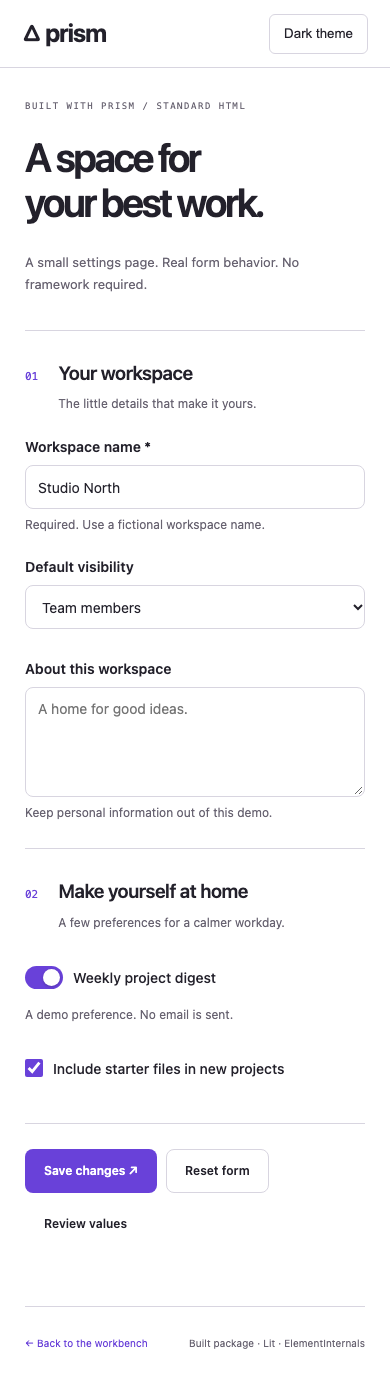
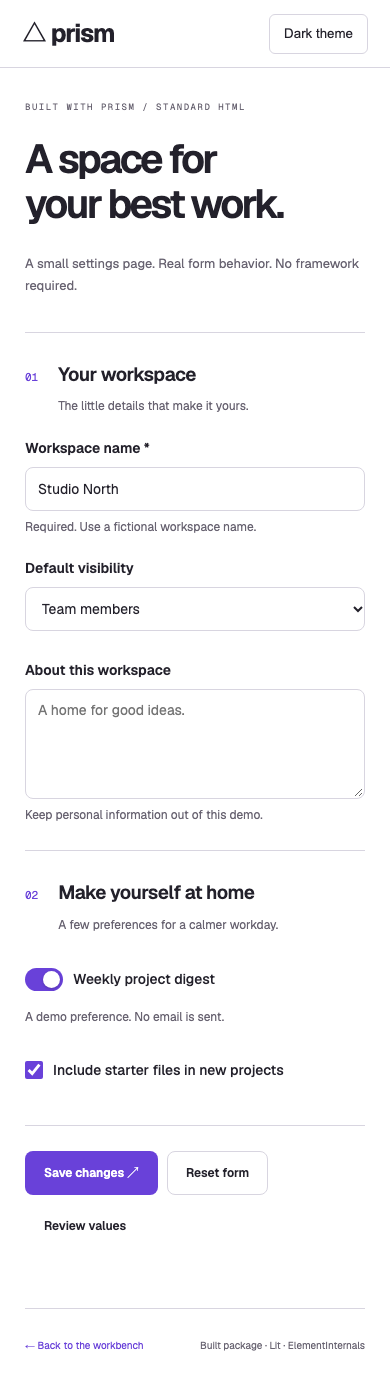
Give Prism a distinct and self-contained typographic voice
Use the reserved Geist and Geist Mono pair as two self-hosted Latin variable WOFF2 files. Keep local license notices and font budgets, refresh actual screenshots, and retain the verified interaction behavior.

Constraint: User requested unique font families across all portfolio apps
Confidence: high
Scope-risk: narrow
Tested: Full lint/format/type/domain/build/external-consumer checks; 30 Chromium/WebKit tests; actual desktop/mobile font loading and screenshot inspection; visual verdict93
Not-tested: Extended-language glyph coverage beyond the documented Latin subset

diff --git a/src/style.css b/src/style.css
@@ -84,7 +84,7 @@ button {
   color: var(--prism-text);
 }
 .version {
-  font-family: monospace;
+  font-family: var(--prism-mono, monospace);
   color: var(--prism-muted);
   border: 1px solid var(--prism-border);
   border-radius: 5px;
@@ -192,7 +192,7 @@ button {
   margin-bottom: 9px;
 }
 .components-label span {
-  font-family: monospace;
+  font-family: var(--prism-mono, monospace);
   letter-spacing: 0;
   background: var(--prism-subtle);
   border-radius: 4px;
@@ -332,7 +332,7 @@ h1 {
 .component-heading prism-badge {
   align-self: flex-end;
   margin-bottom: 7px;
-  --prism-font: monospace;
+  --prism-font: var(--prism-mono, monospace);
   font-size: 9px;
   padding: 3px 7px;
 }
@@ -462,7 +462,7 @@ h1 {
   max-width: 300px;
 }
 .specimen-label {
-  font: 8px monospace;
+  font: 8px var(--prism-mono, monospace);
   letter-spacing: 1.5px;
   color: var(--prism-muted);
   text-align: center;
@@ -499,7 +499,7 @@ h1 {
   left: 0;
   right: 0;
   text-align: center;
-  font-family: monospace;
+  font-family: var(--prism-mono, monospace);
   font-size: 9px;
   color: var(--prism-muted);
   opacity: 0.8;
@@ -584,7 +584,7 @@ h1 {
 }
 .control-label > span {
   float: right;
-  font-family: monospace;
+  font-family: var(--prism-mono, monospace);
   font-size: 9px;
 }
 .control-label input[type='range'] {
@@ -682,7 +682,7 @@ h1 {
   overflow-x: auto;
   white-space: pre-wrap;
   overflow-wrap: anywhere;
-  font-family: ui-monospace, SFMono-Regular, Consolas, monospace;
+  font-family: var(--prism-mono, monospace);
 }
 .under-preview {
   display: grid;
@@ -954,7 +954,7 @@ td:first-child {
 }
 .token-controls strong {
   float: right;
-  font-family: monospace;
+  font-family: var(--prism-mono, monospace);
   font-size: 10px;
 }
 .token-controls input {
@@ -1052,7 +1052,7 @@ td:first-child {
   margin-top: 45px;
 }
 .step-number {
-  font-family: monospace;
+  font-family: var(--prism-mono, monospace);
   font-size: 12px;
   color: var(--prism-accent);
 }

diff --git a/src/main.ts b/src/main.ts
@@ -4,6 +4,7 @@ import type { PrismDialog } from './components';
 import { components } from './catalog';
 import { renderDemo } from './workbench/demos';
 import './tokens.css';
+import './fonts.css';
 import './style.css';
 let active = location.hash.slice(1) || 'button';
 let view = 'preview';
@@ -294,7 +295,7 @@ function tokens() {
       <div>
         <h2>Type that gets out of the way.</h2>
         <p class="type-large">Clarity comes naturally.</p>
-        <code>System sans · 14 / 16 / 24 / 48</code>
+        <code>Geist · 14 / 16 / 24 / 48</code>
       </div>
       <div>
         <h2>A rhythm to build on.</h2>

diff --git a/src/fonts.css b/src/fonts.css
@@ -1,0 +1,16 @@
+/* Latin variable WOFF2, self-hosted from pinned Fontsource packages; OFL-1.1. */
+@font-face {
+  font-family: 'Geist Variable';
+  font-style: normal;
+  font-weight: 100 900;
+  font-display: swap;
+  src: url('@fontsource-variable/geist/files/geist-latin-wght-normal.woff2') format('woff2');
+}
+@font-face {
+  font-family: 'Geist Mono Variable';
+  font-style: normal;
+  font-weight: 100 900;
+  font-display: swap;
+  src: url('@fontsource-variable/geist-mono/files/geist-mono-latin-wght-normal.woff2')
+    format('woff2');
+}

diff --git a/examples/consumer.ts b/examples/consumer.ts
@@ -1,6 +1,7 @@
 // Deliberately consumes the output artifact, never src/components.
 import '@khalilbenali/prism-web-components';
 import '@khalilbenali/prism-web-components/tokens.css';
+import '../src/fonts.css';
 const form = document.querySelector<HTMLFormElement>('#settings')!;
 const result = document.querySelector('prism-status')!;
 const dialog = document.querySelector('prism-dialog')!;

diff --git a/examples/style.css b/examples/style.css
@@ -46,7 +46,7 @@ main {
   margin: auto;
 }
 .eyebrow {
-  font: 9px monospace;
+  font: 9px var(--prism-mono, monospace);
   letter-spacing: 1.5px;
   color: var(--prism-muted);
 }
@@ -79,7 +79,7 @@ section {
   align-items: baseline;
 }
 .section-heading > span {
-  font: 11px monospace;
+  font: 11px var(--prism-mono, monospace);
   color: var(--prism-accent);
 }
 h2 {

diff --git a/src/tokens.css b/src/tokens.css
@@ -1,5 +1,6 @@
 :root {
-  --prism-font: -apple-system, BlinkMacSystemFont, 'Segoe UI', sans-serif;
+  --prism-font: 'Geist Variable', sans-serif;
+  --prism-mono: 'Geist Mono Variable', monospace;
   --prism-text: #23212b;
   --prism-muted: #686371;
   --prism-surface: #ffffff;

diff --git a/README.md b/README.md
@@ -14,7 +14,7 @@ An original component-library portfolio study, created November 2026. Twelve nat
 - **Forms:** text field, textarea, checkbox, switch and select. Native labels, validation, FormData, disabled fieldsets and reset through ElementInternals.
 - **Structure:** automatically activated keyboard tabs, a native modal with composed-tree focus containment and restoration, and native details disclosures.
 - **Feedback:** semantic badges, bounded/indeterminate progress and persistent polite status announcements.
-- **Design:** scoped shadow CSS, supported custom properties/parts, two themes, three accent families and an editable radius token. No remote fonts or runtime imagery.
+- **Design:** scoped shadow CSS, supported custom properties/parts, two themes, three accent families and an editable radius token. Self-hosted Geist/Geist Mono and no runtime imagery.
 
 Each component has a working preview, typed property/attribute contract, slots, parts, events and keyboard notes. Search navigation, copyable examples, responsive previews and the token playground are functional. Hash links such as `/#dialog` are refresh-safe on the Pages subpath.
 
@@ -78,7 +78,7 @@ The latest measured production build (Node zlib gzip; no performance-score claim
 | Combined documentation + HTML-example JavaScript | 95.9 kB | 27.7 kB |
 | Combined CSS                                     | 26.0 kB |  6.2 kB |
 
-Budgets fail the build above 30 kB library / 150 kB combined JS / 40 kB combined CSS. The combined figure includes both page entries; a visitor does not load both at once. There is no runtime font or image payload. Screenshots are documentation-only.
+Budgets fail the build above 30 kB library / 150 kB combined JS / 40 kB combined CSS. The combined figure includes both page entries; a visitor does not load both at once. Two Latin variable WOFF2 fonts are self-hosted; there is no runtime image payload. Screenshots are documentation-only.
 
 `npm audit --omit=dev` reported zero advisories on 3 November 2026. The full audit reported nine moderate development-tooling advisories inherited from minimatch's glob-parts amplification advisory ([GHSA-g3hv-75wg-m249](https://github.com/advisories/GHSA-g3hv-75wg-m249)); these tools do not ship in the static demo. No unsafe forced major-version overrides were applied.
 
@@ -90,4 +90,4 @@ Pure progress/tab rules, documentation fixture data, specimen rendering, scoped 
 
 [Mobile workbench](docs/screenshots/workbench-mobile.png) · [Dark theme](docs/screenshots/workbench-dark.png) · [Token lab](docs/screenshots/tokens-desktop.png) · [Mobile HTML settings](docs/screenshots/settings-mobile.png)
 
-MIT for original code. Third-party packages and operating-system fonts retain their own licenses. No private client code or assets are included.
+MIT for original code. Third-party packages and font assets retain their own licenses. No private client code or assets are included.

diff --git a/ASSETS.md b/ASSETS.md
@@ -2,6 +2,6 @@
 
 - Prism name, triangular logo, favicon, workbench design, written examples and CSS artwork: original portfolio work by Khalil Ben Ali, November 2026. MIT code license applies.
 - No photography, external icon library, customer logo, endorsement or borrowed product screenshot is used.
-- UI typography uses locally installed system sans (`-apple-system`, BlinkMacSystemFont, Segoe UI, sans-serif). Code uses local system monospace (`ui-monospace`, SFMono-Regular, Consolas, monospace). These are two intentional font roles; no font files are bundled, downloaded, hotlinked or relicensed. The operating system supplies and licenses its installed fonts. There is no remote font payload.
+- Typography: Geist Variable for the interface/display and Geist Mono Variable for code. Latin normal variable WOFF2 files are bundled locally from pinned @fontsource-variable/geist 5.3.0 and @fontsource-variable/geist-mono 5.3.0. Copyright 2024 The Geist Project Authors; SIL Open Font License 1.1. Full unmodified notices are in docs/licenses/Geist-OFL.txt and Geist-Mono-OFL.txt. Sources: [Geist project](https://github.com/vercel/geist-font), [Fontsource](https://fontsource.org/fonts/geist). No external font service is contacted. These font files retain OFL rather than the code MIT license.
 - `docs/screenshots/`: actual locally captured production-build screenshots of this repo. They are evidence of the implementation, not external reference mockups.
 - Lit 3.3.3 and its runtime dependencies are BSD-3-Clause licensed by their respective authors. See the license files distributed in installed `lit`, `lit-element`, `lit-html` and `@lit/reactive-element` packages. Development tooling retains its own licenses; package-lock.json records exact versions. MIT does not relicense third-party dependencies.

diff --git a/docs/VERIFICATION.md b/docs/VERIFICATION.md
@@ -13,8 +13,10 @@ Actual checks, 3 November 2026. No Lighthouse score, accessibility certification
 
 ## Payload budgets
 
-`npm run budget` measures actual emitted files after every production build and fails if combined docs/example JS exceeds150,000 bytes, combined CSS exceeds40,000 bytes, or the external-Lit library exceeds30,000 bytes. Gzip sizes are measured with Node zlib, not estimated. Final measured values are in README.md. There are no runtime image/font requests. Curated screenshots are documentation-only and are not loaded by the demo.
+`npm run budget` measures actual emitted files after every production build and fails if combined docs/example JS exceeds150,000 bytes, combined CSS exceeds40,000 bytes, or the external-Lit library exceeds30,000 bytes. Gzip sizes are measured with Node zlib, not estimated. Final measured values are in README.md. There are no remote font requests or runtime images. Two self-hosted WOFF2 fonts have an 80 kB combined budget. Curated screenshots are documentation-only and are not loaded by the demo.
 
 ## Known gaps
 
 No broad assistive-technology/device matrix, Firefox, iOS VoiceOver, RTL, localization, OS forced-colors, nested modal or nested-shadow form audit. No persistence or real submission. Field labels must be supplied. Status is a simple persistent polite notice, not a queue. All constraints are visible in each component's API/keyboard documentation and architecture notes.
+
+The final typography pass uses exactly Geist Variable and Geist Mono Variable, loaded from two local Latin WOFF2 assets (52,528 bytes combined). Both loaded successfully in the actual production preview; all 30 browser checks remained green after the change.

diff --git a/docs/ARCHITECTURE.md b/docs/ARCHITECTURE.md
@@ -24,7 +24,7 @@ Only the opt-in `tokens.css` affects the consumer document, defining custom prop
 
 Modern browsers with Custom Elements, Shadow DOM, ElementInternals and native dialog are required. Chromium and WebKit are tested. Firefox, legacy browsers, forced-colors OS modes, screen-reader combinations, RTL and localization need further evaluation. No certification is implied. Forms across an additional outer shadow boundary, nested modal dialogs, dynamically edited option text, multi-select, asynchronous comboboxes and file inputs are outside this small library's scope. Replace an option element to update its text. A label property is required; external HTML labels do not cross shadow boundaries. Submit/reset buttons locate an ancestor form in their document tree.
 
-The docs aim for WCAG 2.2 AA and show both state and text for feedback. Automated axe checks are evidence for scanned states, not proof for every assistive technology. No server-side renderer is provided; component registration is browser-only. There is no runtime storage, backend, account, telemetry or external font request.
+The docs aim for WCAG 2.2 AA and show both state and text for feedback. Automated axe checks are evidence for scanned states, not proof for every assistive technology. No server-side renderer is provided; component registration is browser-only. There is no runtime storage, backend, account, telemetry or external font request. Two self-hosted Latin variable WOFF2 families, Geist and Geist Mono, give the workbench its own typography. Font assets are separate from the library export and retain OFL-1.1 notices.
 
 ## Tooling decisions
 

diff --git a/docs/IMPLEMENTATION_PLAN.md b/docs/IMPLEMENTATION_PLAN.md
@@ -4,7 +4,7 @@ An original, fictional component system; no existing screenshot reference is sup
 
 1. Foundation: strict Lit/TypeScript, pinned toolchain, independent public repo, reproducible CI.
 2. Component slice: twelve native-backed shadow components, explicit events and styling contracts.
-3. Workbench: white paper, precise black type, saturated violet, coral/lime secondary accents; desktop sidebar, quiet top bar, an oversized component heading, dotted live canvas and an inspector. Mobile stacks inspector below preview. System sans + monospace only. No photography or external font requests.
+3. Workbench: white paper, precise black type, saturated violet, coral/lime secondary accents; desktop sidebar, quiet top bar, an oversized component heading, dotted live canvas and an inspector. Mobile stacks inspector below preview. Geist Variable + Geist Mono Variable only, as required by the later typography directive; self-hosted Latin WOFF2 with OFL notices. No photography or external font requests.
 4. Validate: built package HTML example, required forms, disabled/loading/error, keyboard tabs and dialog focus, progress/status; Chromium and WebKit, axe, 390/768/1440 reflow, theme/reduced motion.
 5. Release: measured payload, honest docs/limits, screenshots and visual verdict >=90, feature PR with green CI, merge and GitHub Pages verification.
 

diff --git a/docs/VISUAL_REVIEW.md b/docs/VISUAL_REVIEW.md
@@ -38,3 +38,7 @@ The first token/settings screenshots revealed a real style-precedence defect: in
   "reasoning": "The final desktop token and mobile settings views match the precise written art direction; the consumer layout defect is corrected and protected by meaningful browser tests."
 }
 ```
+
+## Distinct typography pass
+
+The later user directive reserves Geist for Prism interface/display and Geist Mono for technical text. Both are now locally bundled Latin variable WOFF2 files with OFL notices. After fonts were ready, all five actual screenshots were recaptured; the desktop and mobile workbench were opened and inspected. Verdict remains 93/pass: hierarchy, spacing, compact navigation and the functional canvas remain coherent, with no clipping. All 30 browser tests remain green.
